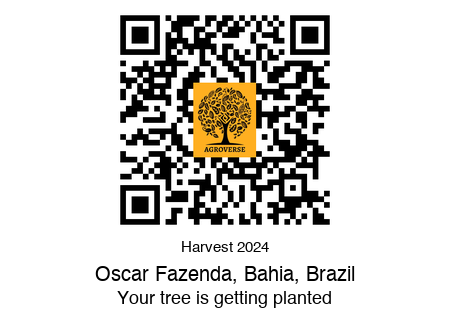
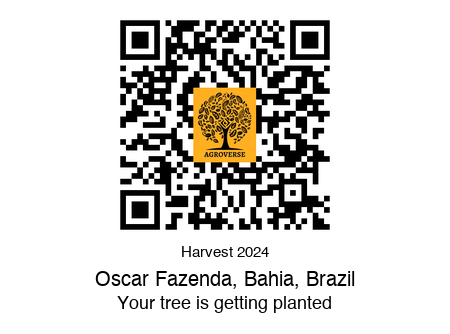
updated that finally autogenerates the QR code outputs

Changed region(s): [[0.2489, 0.0299, 0.7467, 0.6886], [0.1867, 0.7186, 0.7778, 0.9581]]

diff --git a/python_scripts/agroverse_qr_code_generator/batch_compiler.py b/python_scripts/agroverse_qr_code_generator/batch_compiler.py
@@ -41,7 +41,14 @@ SIDE_MARGIN_RATIO = 0.05       # horizontal side margin as fraction of canvas wi
 QR_TO_HARVEST_RATIO = 0.00001    # vertical space from QR to harvest line
 HARVEST_TO_INFO_RATIO = 0.10   # vertical space from harvest to info line
 INFO_TO_PLANT_RATIO = 0.07     # vertical space from info to plant line
+# bottom margin as fraction of canvas height
 BOTTOM_MARGIN_RATIO = 0.05     # bottom margin as fraction of canvas height
+
+# Manual fixed positions (in pixels) to override dynamic layout. Set to None to use auto-layout
+FIXED_QR_Y = -25              # override QR Y position (px); e.g., -30
+FIXED_HARVEST_Y = 245         # override harvest text Y position (px)
+FIXED_INFO_Y = 270            # override info text Y position (px)
+FIXED_PLANT_Y = 295           # override plant text Y position (px)
 
 # Default font family for text
 DEFAULT_FONT_FAMILY = "Helvetica.ttc"
@@ -252,35 +259,34 @@ def compile_image(template_path: str,
     m3 = int(bg_h * INFO_TO_PLANT_RATIO)
     bottom_margin = int(bg_h * BOTTOM_MARGIN_RATIO)
 
-    # Compute starting Y so content sits above bottom margin
+    # Compute dynamic starting Y so content sits above bottom margin
     total_h = qr_h + m1 + h1 + m2 + h2 + m3 + h3
-    start_y = -30
+    dynamic_start_y = bg_h - bottom_margin - total_h
 
-    # Paste QR
+    # Paste QR code (centered horizontally)
     qr_x = (bg_w - qr_w) // 2
-    qr_y = start_y
+    qr_y = FIXED_QR_Y if FIXED_QR_Y is not None else dynamic_start_y
     template.paste(qr_img, (qr_x, qr_y), qr_img)
 
-    # Draw harvest text
-    # y = qr_y + qr_h + m1
-    y = 240
+    # Determine Y positions for text (manual override or dynamic)
+    harvest_y = FIXED_HARVEST_Y if FIXED_HARVEST_Y is not None else qr_y + qr_h + m1
+    info_y    = FIXED_INFO_Y    if FIXED_INFO_Y    is not None else harvest_y + h1 + m2
+    plant_y   = FIXED_PLANT_Y   if FIXED_PLANT_Y   is not None else info_y    + h2 + m3
+
+    # Draw harvest text (centered horizontally)
     w_harvest, _ = text_size(harvest_text, f_harvest)
     x = (bg_w - w_harvest) // 2
-    print("Harvest Y " , y)
-    draw.text((x, y), harvest_text, fill="black", font=f_harvest)
+    draw.text((x, harvest_y), harvest_text, fill="black", font=f_harvest)
 
     # Draw info text
-    y += h1 + m2
-    y = 265
     w_info, _ = text_size(info_text, f_info)
     x = (bg_w - w_info) // 2
-    draw.text((x, y), info_text, fill="black", font=f_info)
+    draw.text((x, info_y), info_text, fill="black", font=f_info)
 
     # Draw planting message
-    y = 290
     w_plant, _ = text_size(plant_text, f_plant)
     x = (bg_w - w_plant) // 2
-    draw.text((x, y), plant_text, fill="black", font=f_plant)
+    draw.text((x, plant_y), plant_text, fill="black", font=f_plant)
 
     return template
 

diff --git a/python_scripts/agroverse_qr_code_generator/README.md b/python_scripts/agroverse_qr_code_generator/README.md
@@ -118,15 +118,15 @@ Ensure your Google service account key file `gdrive_key.json` is present in the 
 
 ### Usage
 ```bash
-   python3 batch_compiler.py \
-     --credentials gdrive_key.json \
-     --sheet-url "https://docs.google.com/spreadsheets/d/1GE7PUq-UT6x2rBN-Q2ksogbWpgyuh2SaxJyG_uEK6PU/" \
-     --sheet-name "Agroverse QR codes" \
-     --output-dir package_qr_codes \
-     --box-size 10 \
-     --border 8 \
-     --logo-ratio 0.25 \
-     --font-family "/System/Library/Fonts/Helvetica.ttc"
+ python3 batch_compiler.py \
+   --credentials gdrive_key.json \
+   --sheet-url "https://docs.google.com/spreadsheets/d/1GE7PUq-UT6x2rBN-Q2ksogbWpgyuh2SaxJyG_uEK6PU/" \
+   --sheet-name "Agroverse QR codes" \
+   --output-dir package_qr_codes \
+   --box-size 10 \
+   --border 8 \
+   --logo-ratio 0.25 \
+   --font-family "/System/Library/Fonts/Helvetica.ttc"
 ```
 
 Options:
